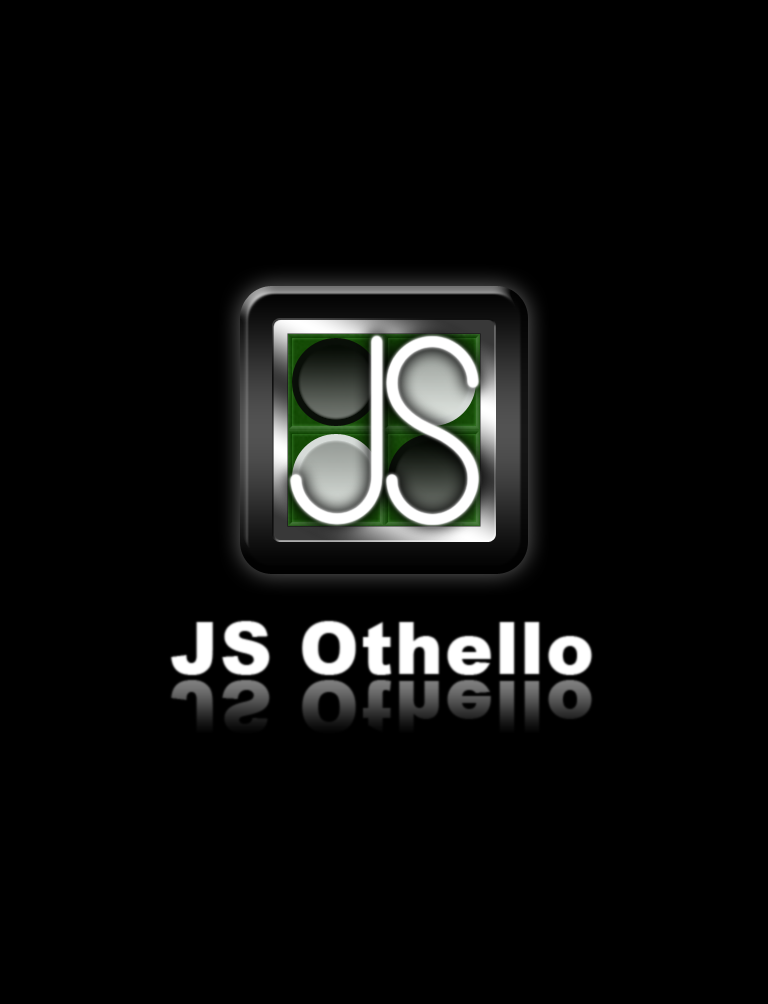
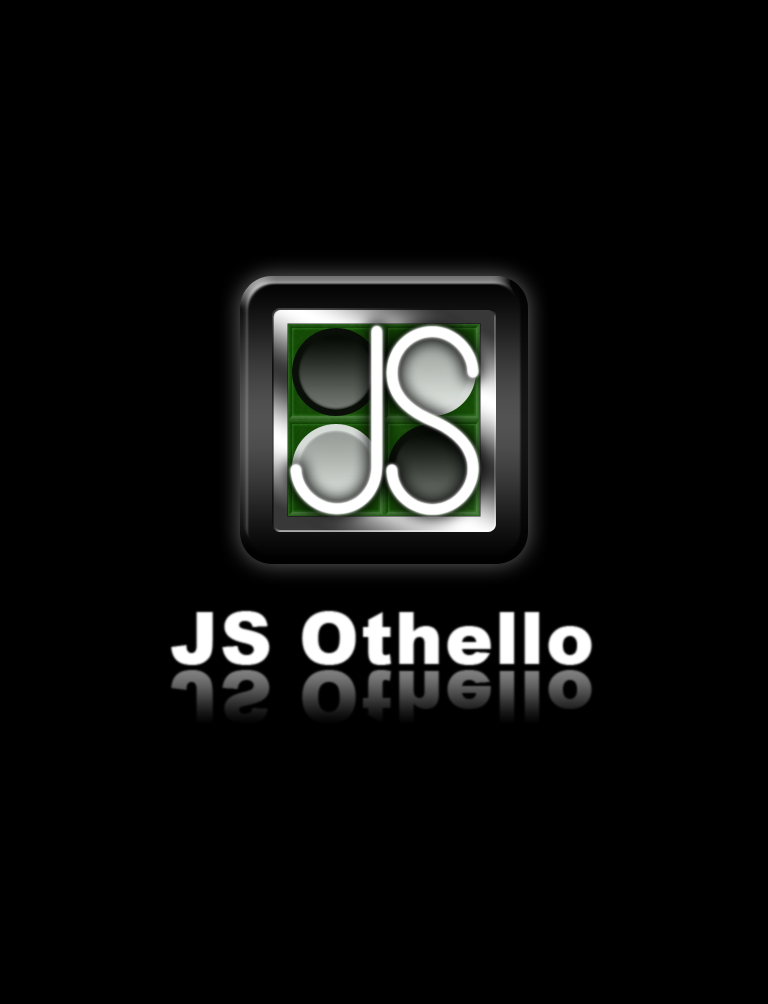
2011-11-21 23:38

Changed region(s): [[0.2188, 0.247, 0.7812, 0.741]]

diff --git a/jso/jso.css b/jso/jso.css
@@ -97,28 +97,26 @@ position: absolute;
 }
 
 #menuWrapper {
-	background-color: rgba(255,0,0,0.5);
-	display: none;
+	background-color: rgb(0,0,0);
+	display: block;
 	height: 1024px;
 	margin-top: -1024px;
 	position: relative;
 	width: 768px;
-	z-index: 999;
+	z-index: 3000;
 }
 
-#menuWhite {
-	height: 128px;
-	width: 768px;
-}
-
-#menuBoard {
-	height: 768px;
-	width: 768px;
-}
-
-#menuBlack {
-	height: 128px;
-	width: 768px;
+#splash {
+	height: 512px;
+	left: 128px;
+	position: absolute;
+	top: 256px;
+	width: 512px;
+	-webkit-transform: none;
+	-webkit-transition: top 0.4s;
+	-webkit-transition: left 0.4s;
+	-webkit-transition: width 0.4s;
+	-webkit-transition: height 0.4s;
 }
 
 #confirmOverlay {
@@ -194,6 +192,7 @@ position: absolute;
 .turnOverlayPlayer {
 	background-color: rgba(0,0,0,0.9);
 	color: white;
+	display: none;
 	height: 128px;
 	position: absolute;
 	width: 768px;

diff --git a/jso/jso.js b/jso/jso.js
@@ -126,7 +126,7 @@ function fillHolders() {
 	}
 }
 
-function prepareGame() {
+function doPrepare() {
 	if (jso.black.bricks == jso.bricksTotal/2) {
 		clearTimeout(jso.prep);
 		n.held.style.display = 'inline-block';
@@ -138,11 +138,18 @@ function prepareGame() {
 		drawBrick('white', 4, 3);
 		drawBrick('white', 3, 4);
 		drawBrick('black', 4, 4);
+		n.turnOverlayWhite.style.display = 'block';
+		n.turnOverlayBlack.style.display = 'block';
 		nextTurn();
 	}
 	else {
-		jso.prep = setTimeout("prepareGame()", 200);
+		jso.prep = setTimeout("doPrepare()", 300);
 	}
+}
+
+function prepareGame() {
+	setTimeout("fillHolders();", 100);
+	doPrepare();
 }
 
 function setCanvasContexts() {
@@ -580,7 +587,6 @@ function load() {
 	n = getElementsWithId(); // all elements with ID
 	assignListeners();
 	setCanvasContexts();
-	setTimeout("fillHolders();", 400);
 	prepareGame();
 }
 

diff --git a/index.html b/index.html
@@ -85,15 +85,7 @@
 		<p>It's White's turn.</p>
 	</div>
 	<div id="menuWrapper">
-		<div id="menuWhite">
-		
-		</div>
-		<div id="menuBoard">
-			
-		</div>
-		<div id="menuBlack">
-		
-		</div>
+		<img src="jso/pic/splash.png" id="splash" width="512" height="512" />
 	</div>
 </div>
 <div id="invisible">
